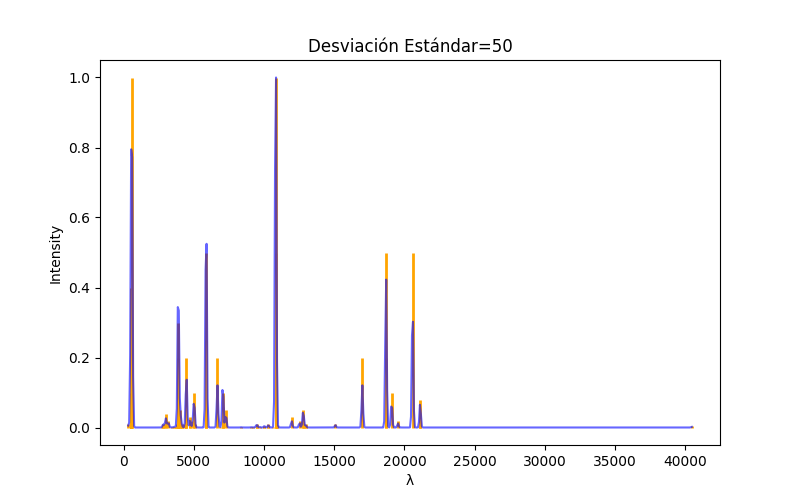
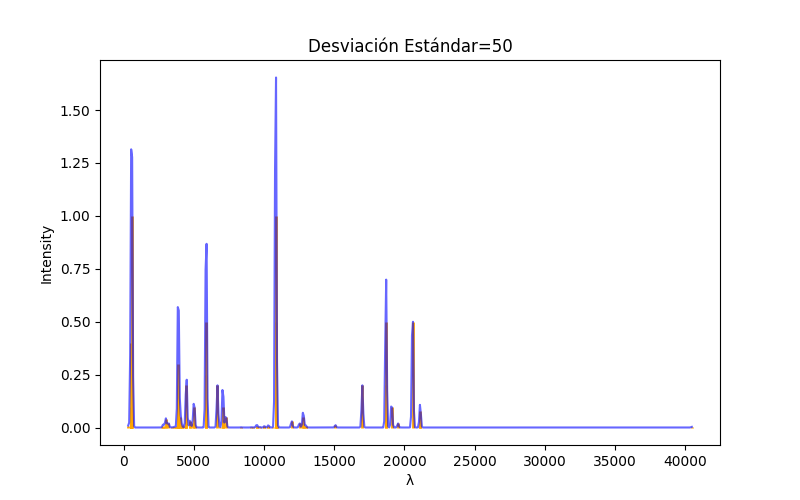
Puesta en practica con el nuevo suavisadoGaussiano

diff --git a/DTWTeoricaLampEqualize.py b/DTWTeoricaLampEqualize.py
@@ -3,6 +3,7 @@ from NIST_Table_Interactor import NIST_Table_Interactor
 import os
 
 import matplotlib.pyplot as plt
+import numpy as np
 
 from utils import dp, getfileData, Processor
 processor = Processor()
@@ -16,7 +17,18 @@ lamp_y = lamp_data
 # min_lamp_y = np.min(lamp_y)
 # max_lamp_y = np.max(lamp_y)
 # nor_lamp_y = (lamp_y - min_lamp_y) / (max_lamp_y - min_lamp_y)
-nor_lamp_y, _, _ = processor.normalize_min_max(lamp_y)
+lamp_y, _, _ = processor.normalize_min_max(lamp_y)
+
+plt.figure(figsize=(8, 5))
+plt.plot(lamp_x, lamp_y, color="green", alpha=1, label=f"Lampara")
+plt.ylim(0, 1)
+plt.xlabel('\u03BB')
+plt.ylabel('Intensity')
+plt.title("Lampara")
+plt.legend()
+plt.tight_layout()
+plt.savefig(f"Lampara.png")
+plt.show()
 
 # Datos de picos del NIST
 csv_filename = os.path.join(script_dir, "Tabla(NIST)_Int_Long_Mat_Ref.csv")
@@ -32,14 +44,40 @@ teorico_y, _, _ = processor.normalize_min_max(target=teorico_y)
 
 sigma= 50
 teorico_x_au, teorico_y_au = processor.gaussianice(x=teorico_x, y=teorico_y, 
-                                                   resolution=len(lamp_x), sigma=sigma)
-    
+                                                   resolution=len(lamp_x), sigma=sigma)    
 teorico_y_au, _, _ = processor.normalize_min_max(teorico_y_au)
+
+# plt.figure(figsize=(8, 5))
+# plt.vlines(teorico_x, 0, teorico_y, colors='orange', linewidth=2)
+# plt.plot(teorico_x_au, teorico_y_au, color="blue", linestyle='-', alpha=0.6)
+# plt.xlabel('\u03BB')
+# plt.ylabel('Intensity')
+# plt.title(f'Desviación Estándar={sigma}')
+# plt.savefig(f"TeoricoHeIGaussS={sigma}.png")
+# plt.show()
+
+#/////////////////////////////////////// 
+# DTW
+N = lamp_y.shape[0]
+M = len(teorico_y_au)
+dist_mat = np.zeros((N, M))
+for i in range(N):
+    for j in range(M):
+        dist_mat[i, j] = abs(lamp_y[i] - teorico_y_au[j])
+path, cost_mat = dp(dist_mat)
+
+new_lamp_x = [teorico_x_au[tupla[1]] for tupla in path]
+new_lamp_y = [lamp_y[tupla[0]] for tupla in path]
+
 plt.figure(figsize=(8, 5))
-plt.vlines(teorico_x, 0, teorico_y, colors='orange', linewidth=2)
-plt.plot(teorico_x_au, teorico_y_au, color="blue", linestyle='-', alpha=0.6)
+plt.plot(new_lamp_x, new_lamp_y, color="green", alpha=1, label=f"Lampara")
+plt.plot(teorico_x_au, teorico_y_au, color="orange", alpha=0.6, label=f"{filter} calibrado")    
+plt.ylim(0, 1)
 plt.xlabel('\u03BB')
 plt.ylabel('Intensity')
-plt.title(f'Desviación Estándar={sigma}')
-plt.savefig(f"TeoricoHeIGaussS={sigma}.png")
+plt.title("Normalized alignment cost: {:.4f}, SIGMA={}".format(cost_mat[N - 1, M - 1]/(N + M), sigma))
+plt.legend()
+plt.tight_layout()
+plt.savefig(f"CalibradoConHeIGaussS={sigma}.png")
 plt.show()
+
